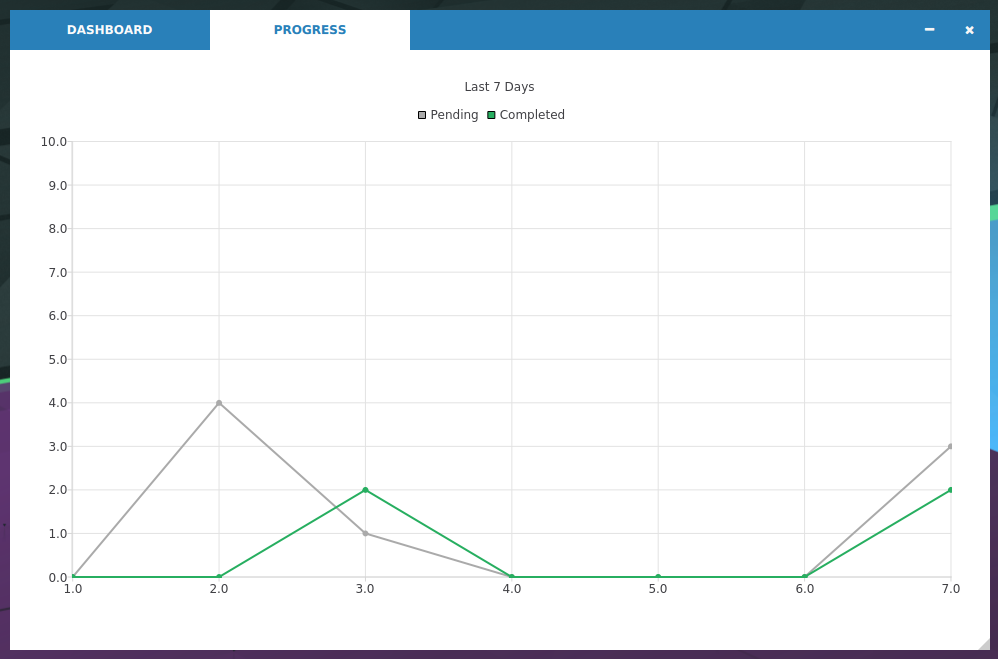
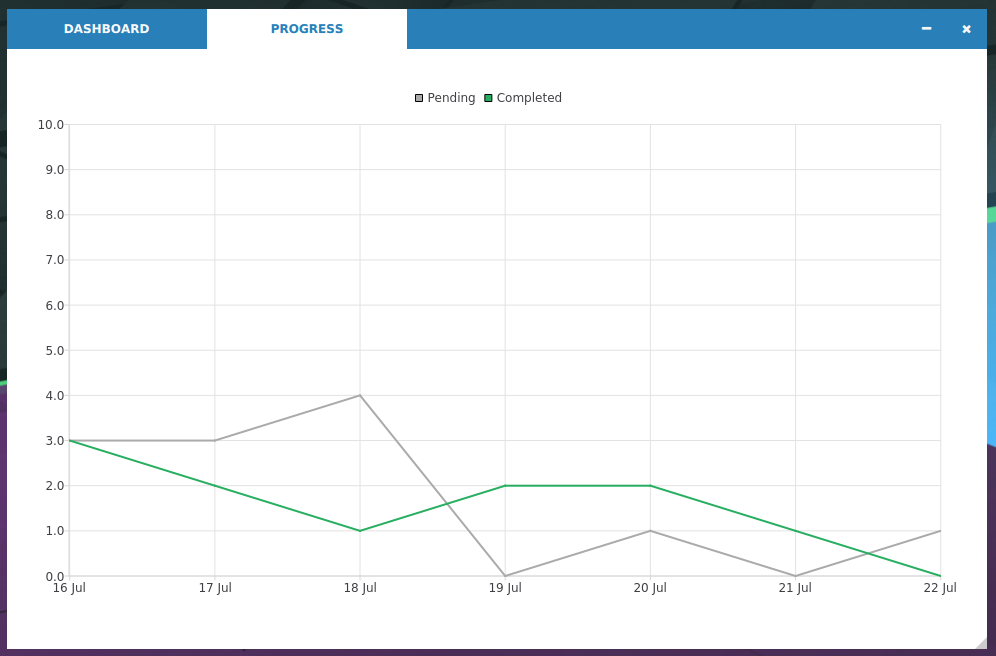
update progress graph image with new one which has dates in x axis

diff --git a/Using.md b/Using.md
@@ -59,11 +59,11 @@
 ![PROGRESS](images/progressgraph.png)
 
 Axis
-* X : 7 days , left most being the oldest and right most denotes today
+* X : days
 * Y : no of subtasks
 
 Lines
-* Pending line shows total subtasks created on a particular day
-* Completed shows total total subtasks completed on a particular day
+* Pending line shows total subtasks created on a day
+* Completed shows total total subtasks completed on a day
 
 > if a task does not have any subtasks in it, then that task will be considered as one subtask for calculating progress graph
